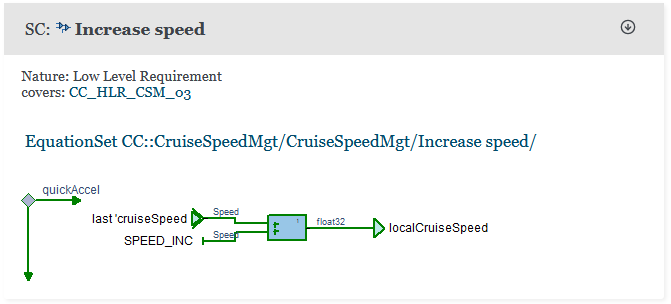
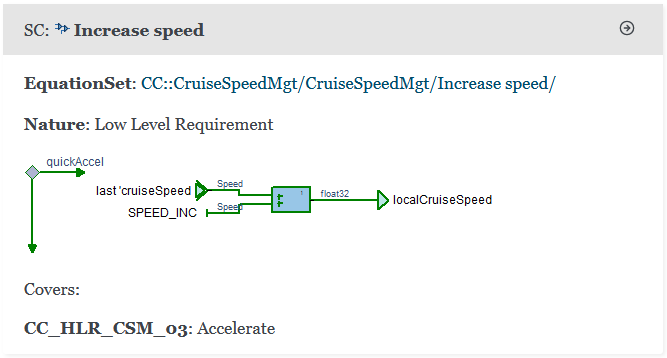
feat: Export all attributes to allow the usage of templates

diff --git a/src/ansys/scade/almgw_sphinx_needs/export.py b/src/ansys/scade/almgw_sphinx_needs/export.py
@@ -58,28 +58,32 @@ def _export_to_json(llrs: dict, trace: TraceDocument, options: Options):
         icon = llr['icon']
         if not icon:
             icon = Path(__file__).parent / 'res' / '_null.png'
-        image = llr.get('image')
-        if not image:
-            image = Path(__file__).parent / 'res' / '_null.png'
+        image = llr.get('image', '')
         need = {}
         need['id'] = oid
         need['type'] = options.downstream_type
         need['title'] = title
-        content = f'`{scade_type} {scade_path} <{scade_url}>`_'
-        need['content'] = content
+        # content = f'`{scade_type} {scade_path} <{scade_url}>`_'
+        # need['content'] = content
+        need['scade_type'] = scade_type
+        need['scade_path'] = scade_path
+        need['scade_url'] = scade_url
         # copy the image to the target directory
-        src = Path(image)
-        dst = target_dir / '_static' / src.name.replace(' ', '_')
-        dst.parent.mkdir(exist_ok=True)
-        shutil.copyfile(src, dst)
-        need['image'] = dst.as_posix()
+        if image:
+            src = Path(image)
+            dst = target_dir / '_static' / src.name.replace(' ', '_')
+            dst.parent.mkdir(exist_ok=True)
+            shutil.copyfile(src, dst)
+            need['image'] = dst.as_posix()
+        else:
+            need['image'] = '<null>'
         # copy the icon to the target directory
         src = Path(icon)
         dst = target_dir / '_static' / src.name.replace(' ', '_')
         dst.parent.mkdir(exist_ok=True)
         if not dst.exists():
             shutil.copyfile(src, dst)
-        need['icon'] = dst.as_posix()
+        need['scade_icon'] = dst.as_posix()
         # additional attributes, must be declared in conf.py
         for attribute in llr.get('attributes', []):
             need[attribute['name']] = attribute['value']

diff --git a/examples/CruiseControl/Documents/source/conf.py b/examples/CruiseControl/Documents/source/conf.py
@@ -78,8 +78,11 @@ needs_extra_links = [
 ]
 
 needs_extra_options = [
-    # mandatory: icon of the element
-    'icon',
+    # mandatory connector options
+    'scade_path',
+    'scade_type',
+    'scade_url',
+    'scade_icon',
     # when export graphics is selected: image of the element
     'image',
     # field 'Nature' of the DesignElement annotation
@@ -88,22 +91,20 @@ needs_extra_options = [
 
 # define a custom layout to
 # * add the icon
-# * hide the id that
-# * insert the diagram or equation sets in the footer
+# * hide the id
 needs_layouts = {
     'scade-suite': {
-        'grid': 'simple_footer',
+        'grid': 'simple',
         'layout': {
             'head': [
-                '<<meta("type_name")>>: <<image("{{icon}}")>> '
+                '<<meta("type_name")>>: <<image("{{scade_icon}}")>> '
                 '**<<meta("title")>>**>> '
-                '<<collapse_button("meta", collapsed="icon:arrow-down-circle", visible="icon:arrow-right-circle")>>'
+                '<<collapse_button("meta", collapsed="icon:arrow-down-circle", visible="icon:arrow-right-circle", initial=True)>>'
             ],
             'meta': [
-                '<<meta_all(exclude=["icon", "image", "layout"], no_links=True)>>',
+                '<<meta_all(exclude=["scade_icon", "image", "layout"], no_links=True)>>',
                 'covers: <<meta_links("covers", incoming=False)>>',
             ],
-            'footer': ['<<image("{{image}}")>>'],
         },
     }
 }

diff --git a/doc/source/user-guide/index.rst b/doc/source/user-guide/index.rst
@@ -10,6 +10,23 @@ Refer to `needs_build_json`_ for details.
 The connector exports the SCADE needs to a file (JSON) that can be imported with
 the directive `needimport`_.
 
+It provides the following built-in fields:
+
+* ``id``: OID of the need
+* ``title``: name of the need
+* ``type``: downstream type specified in the settings
+
+It also provides the following extra options that must be declared
+in the `build configuration`_ (``conf.py``):
+
+* ``image``: path of the image file otherwise ``<null>``
+* ``scade_type``: kind of the need: ``EquationSet``, ``State``, ``Record``, etc.
+* ``scade_path``: path of the need.
+* ``scade_url``: URL to locate the need in the SCADE IDE.
+* ``scade_icon``: icon associated to the need.
+
+These options can be used in custom layouts or templates.
+
 Configuration
 -------------
 
@@ -45,8 +62,11 @@ Example of sphinx-needs configuration (``conf.py``)::
     ]
 
     needs_extra_options = [
-        # mandatory: icon of the element
-        'icon',
+        # mandatory connector options
+        'scade_path',
+        'scade_type',
+        'scade_url',
+        'scade_icon',
         # when export graphics is selected: image of the element
         'image',
         # field 'Nature' of the DesignElement annotation
@@ -55,23 +75,21 @@ Example of sphinx-needs configuration (``conf.py``)::
 
     # define a custom layout to
     # * add the icon
-    # * hide the id that
-    # * insert the diagram or equation sets in the footer
+    # * hide the id
     needs_layouts = {
         'scade-suite': {
-            'grid': 'simple_footer',
+            'grid': 'simple',
             'layout': {
                 'head': [
-                    '<<meta("type_name")>>: <<image("{{icon}}")>> '
+                    '<<meta("type_name")>>: <<image("{{scade_icon}}")>> '
                     '**<<meta("title")>>**>> '
-                    '<<collapse_button("meta", collapsed="icon:arrow-down-circle", visible="icon:arrow-right-circle")>>'
+                    '<<collapse_button("meta", collapsed="icon:arrow-down-circle", visible="icon:arrow-right-circle", initial=True)>>'
                 ],
                 'meta': [
-                    '<<meta_all(exclude=["icon", "image", "layout"], no_links=True)>>',
-                    'covers: <<meta_links("covers", incoming=False)>>'
+                    '<<meta_all(exclude=["scade_icon", "image", "layout"], no_links=True)>>',
+                    'covers: <<meta_links("covers", incoming=False)>>',
                 ],
-                'footer': ['<<image("{{image}}")>>'],
-            }
+            },
         }
     }
 
@@ -81,9 +99,39 @@ Example of sphinx-needs configuration (``conf.py``)::
     # export the needs to a json file, to be imported by the connector
     needs_build_json = True
 
+    # reduce the size of the file
+    needs_json_remove_defaults = True
+
     ...
 
-The ``scade-suite`` layout produces the following output:
+Example of template (``llr.need``):
+
+.. code-block:: jinja
+
+   **{{scade_type}}**: `{{scade_path}} <{{scade_url}}>`_
+
+   **Nature**: {{Nature}}
+
+   {% if image != "<null>" %}
+   .. image:: {{image}}
+   :alt: {{title}}
+   {%- endif %}
+
+   Covers:
+   {% for link in covers %}
+   {# :need:`{{link}} <{{link}}>`: :ndf:`copy('title', '{{link}}')` #}
+   | **{{link}}**: :ndf:`copy('title', '{{link}}')`
+   {%- endfor %}
+
+
+You can import the SCADE needs using the custom ``scade-suite`` layout
+and ``llr`` template to render needs as follows:
+
+.. code-block:: rst
+
+   .. needimport:: /_scade/model.json
+       :layout: scade-suite
+       :template: llr
 
 .. image:: /_static/llr.png
 

diff --git a/examples/CruiseControl/Documents/source/design.rst b/examples/CruiseControl/Documents/source/design.rst
@@ -3,3 +3,4 @@ Design
 
 .. needimport:: /_scade/model.json
     :layout: scade-suite
+    :template: llr
